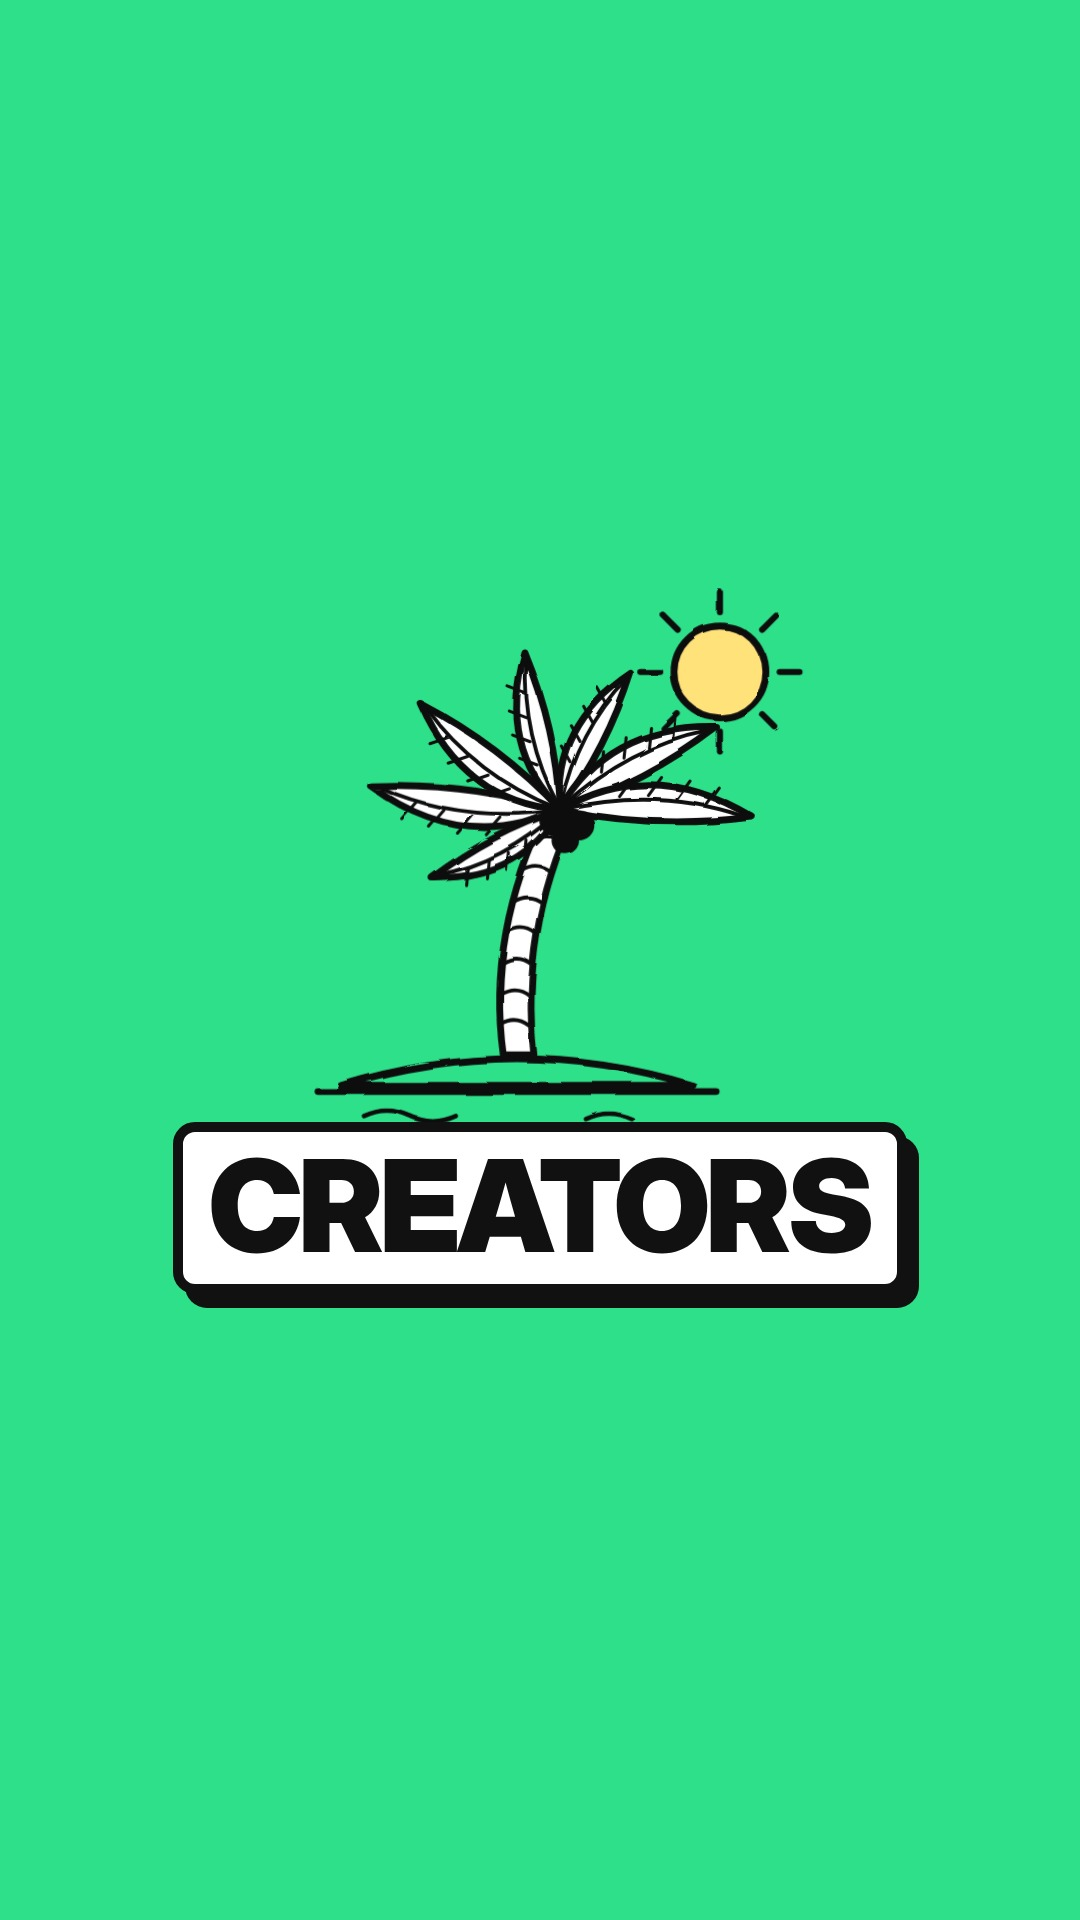
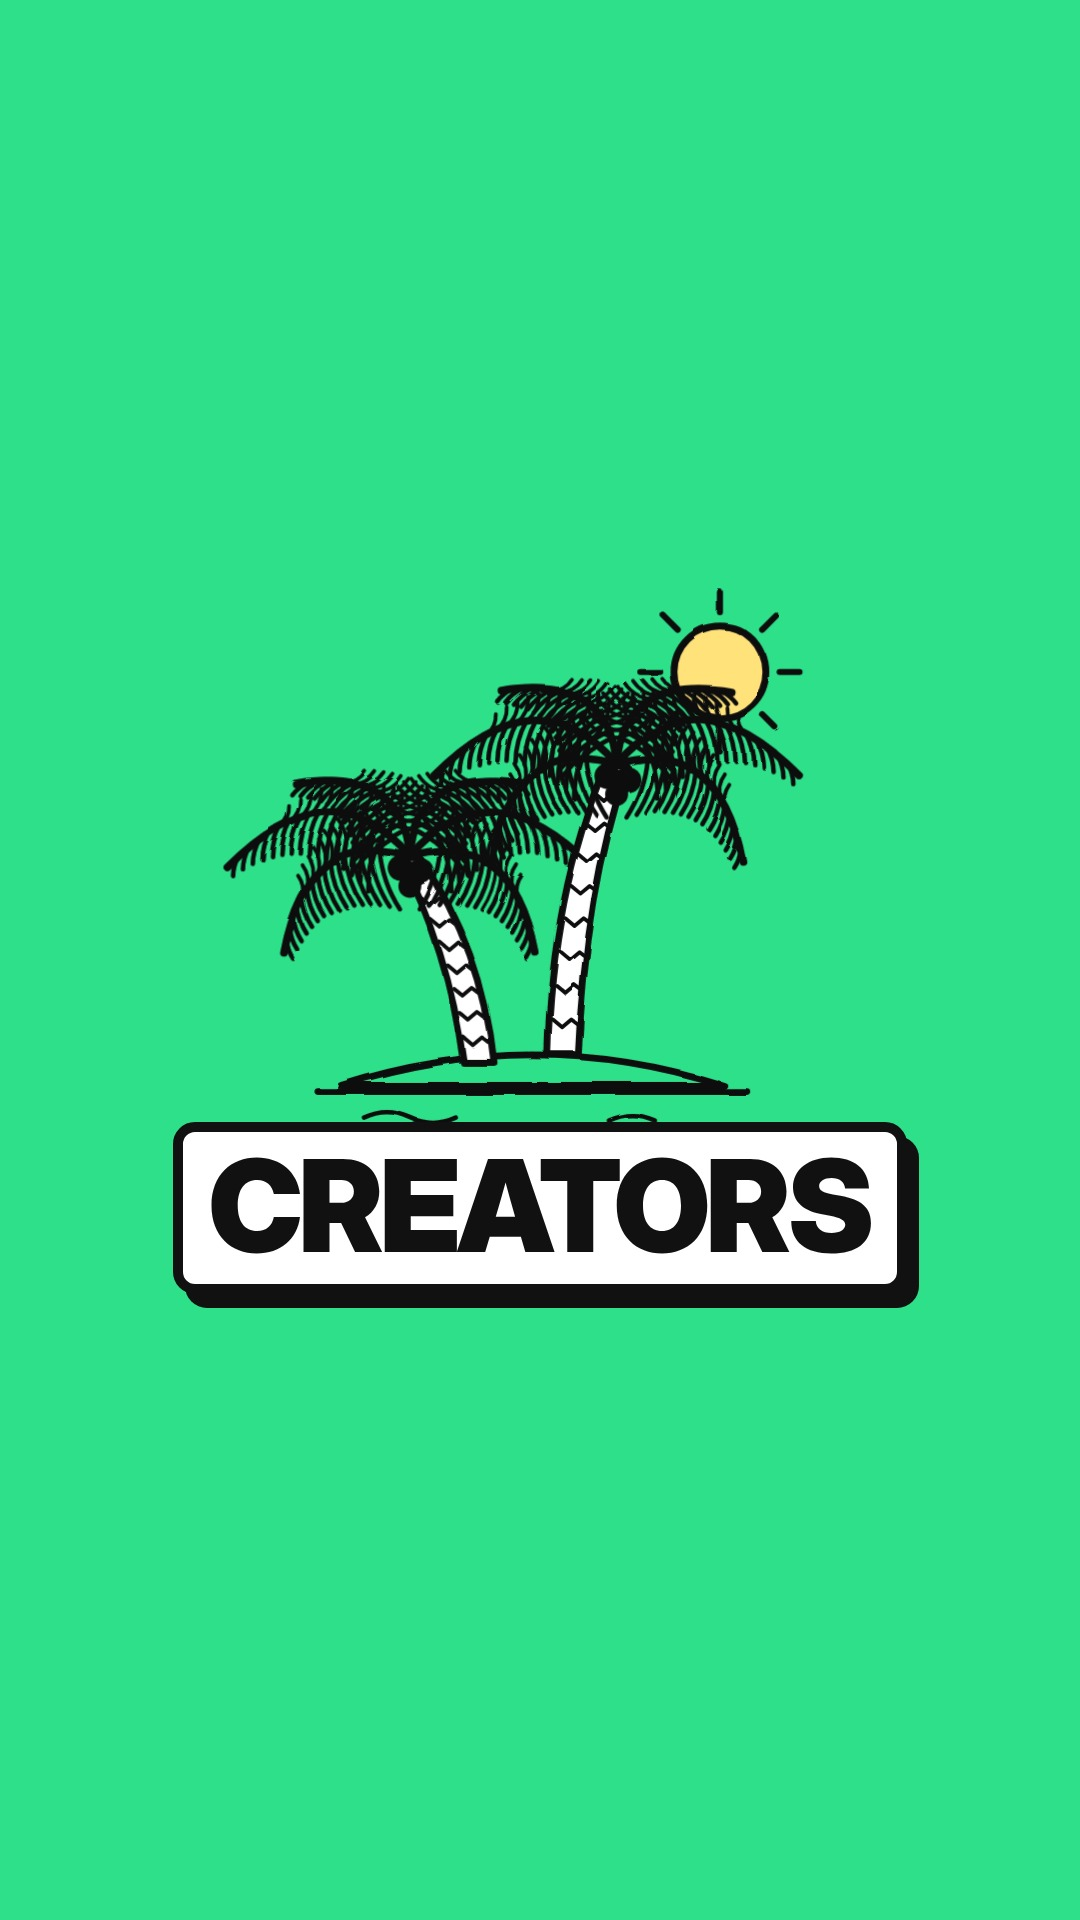
Highlight covers: new two-palm sketch with drooping fronds (both designs)
Claude-Session: https://claude.ai/code/session_01XWHiAuJ5usg3NqhhkBZ2QK

Changed region(s): [[0.2139, 0.3438, 0.7333, 0.5938], [0.6417, 0.5625, 0.7028, 0.5938]]

diff --git a/scripts/render_covers.py b/scripts/render_covers.py
@@ -42,6 +42,52 @@ def palm(fill="#fff", island=MINT, vein=INK, waves="#111"):
     return b + crown
 
 
+def _q(p0, c, p1, t):
+    return tuple((1-t)**2*a + 2*(1-t)*t*b + t*t*d for a, b, d in zip(p0, c, p1))
+
+
+def frond2(L, tilt, side=1, ink=INK):
+    """A drooping sketch frond: one arched rib with leaflets hanging off it."""
+    p0, c, p1 = (0, 0), (L*0.55, -L*0.42), (L, L*0.28)
+    rib = f'<path d="M0,0 Q{c[0]},{c[1]} {p1[0]},{p1[1]}" fill="none" stroke="{ink}" stroke-width="10" stroke-linecap="round"/>'
+    leafs = ""
+    for i in range(3, 19):
+        t = i / 19
+        x, y = _q(p0, c, p1, t)
+        ln = 70 * (1 - t) + 22
+        leafs += f'<path d="M{x:.1f},{y:.1f} q{ln*0.15:.1f},{ln*0.5:.1f} {ln*0.05:.1f},{ln:.1f}" fill="none" stroke="{ink}" stroke-width="6" stroke-linecap="round"/>'
+        if t < 0.75:
+            leafs += f'<path d="M{x:.1f},{y:.1f} q{-ln*0.25:.1f},{-ln*0.3:.1f} {-ln*0.15:.1f},{-ln*0.7:.1f}" fill="none" stroke="{ink}" stroke-width="5" stroke-linecap="round"/>'
+    return f'<g transform="rotate({tilt}) scale({side},1)">{rib}{leafs}</g>'
+
+
+def one_palm(h, lean, ink, trunk_fill):
+    """Curved trunk of height h leaning by `lean` px, crown of drooping fronds at the top."""
+    tx, ty = lean, -h
+    b = (f'<path d="M-20,0 Q{lean*0.15-26},{-h*0.55} {tx-14},{ty} L{tx+14},{ty+4} Q{lean*0.15+18},{-h*0.55} 20,0 Z" '
+         f'fill="{trunk_fill}" stroke="{ink}" stroke-width="9" stroke-linejoin="round"/>')
+    for i in range(1, 9):
+        t = i / 9
+        x, y = _q((0, 0), (lean*0.15, -h*0.55), (tx, ty), t)
+        b += f'<path d="M{x-16:.1f},{y:.1f} l12,10 l12,-10 l8,6" fill="none" stroke="{ink}" stroke-width="5" stroke-linecap="round" stroke-linejoin="round"/>'
+    crown = f'<g transform="translate({tx},{ty})">'
+    for L, tilt, side in ((230, -12, 1), (200, 22, 1), (170, -48, 1), (230, 12, -1), (200, -22, -1), (170, 48, -1)):
+        crown += frond2(L, tilt, side, ink)
+    crown += (f'<circle cx="-12" cy="16" r="17" fill="{ink}"/><circle cx="14" cy="20" r="17" fill="{ink}"/>'
+              f'<circle cx="0" cy="40" r="15" fill="{ink}"/></g>')
+    return b + crown
+
+
+def palm2(trunk_fill="#fff", island=MINT, ink=INK, waves="#111"):
+    """Two leaning sketch palms on a small island."""
+    b = f'<path d="M-250,0 Q0,-80 250,0 Z" fill="{island}" stroke="{ink}" stroke-width="9" stroke-linejoin="round"/>'
+    b += f'<path d="M-280,8 L280,8" stroke="{ink}" stroke-width="9" stroke-linecap="round"/>'
+    b += f'<path d="M-220,42 q30,-14 60,0 t60,0 M100,46 q30,-14 60,0" fill="none" stroke="{waves}" stroke-width="6" stroke-linecap="round"/>'
+    b += f'<g transform="translate(-70,-30)">{one_palm(270, -90, ink, trunk_fill)}</g>'
+    b += f'<g transform="translate(40,-40)">{one_palm(380, 70, ink, trunk_fill)}</g>'
+    return b
+
+
 def sun():
     rays = "".join(f'<path d="M0,-78 L0,-104" transform="rotate({a})" stroke="{INK}" stroke-width="8" stroke-linecap="round"/>' for a in range(0, 360, 45))
     return f'<circle r="60" fill="#FFE27A" stroke="{INK}" stroke-width="9"/>{rays}'
@@ -58,7 +104,7 @@ h1{{font-family:'Inter Display','Inter',sans-serif;font-weight:900;font-size:{fs
 h1 span{{display:inline-block;background:#fff;border:10px solid {INK};border-radius:22px;padding:10px 26px 14px;box-shadow:12px 14px 0 {INK}}}
 </style></head><body><div class="c">
 <svg viewBox="-320 -560 640 640"><defs>{FILTER}</defs><g filter="url(#wob)">
-<g transform="translate(235,-500)">{sun()}</g><g transform="translate(-30,40)">{palm()}</g></g></svg>
+<g transform="translate(235,-500)">{sun()}</g><g transform="translate(-10,40)">{palm2()}</g></g></svg>
 <h1><span>{label}</span></h1></div></body></html>"""
 
 
@@ -76,7 +122,7 @@ h1 span{{background:{MINT};padding:4px 22px 10px;transform:rotate(-3deg);display
 <svg viewBox="-320 -580 640 660"><defs>{FILTER}</defs><g filter="url(#wob)">
 <circle cx="0" cy="-250" r="265" fill="#FFE27A"/>
 <circle cx="0" cy="-250" r="300" fill="none" stroke="{MINT}" stroke-width="10" stroke-dasharray="4 30" stroke-linecap="round"/>
-<g transform="translate(-40,40)">{palm(INK, INK, '#FFE27A', MINT)}</g></g></svg>
+<g transform="translate(15,40) scale(.82)">{palm2(INK, INK, INK, MINT)}</g></g></svg>
 <h1><span>{label}</span></h1></div></body></html>"""
 
 
